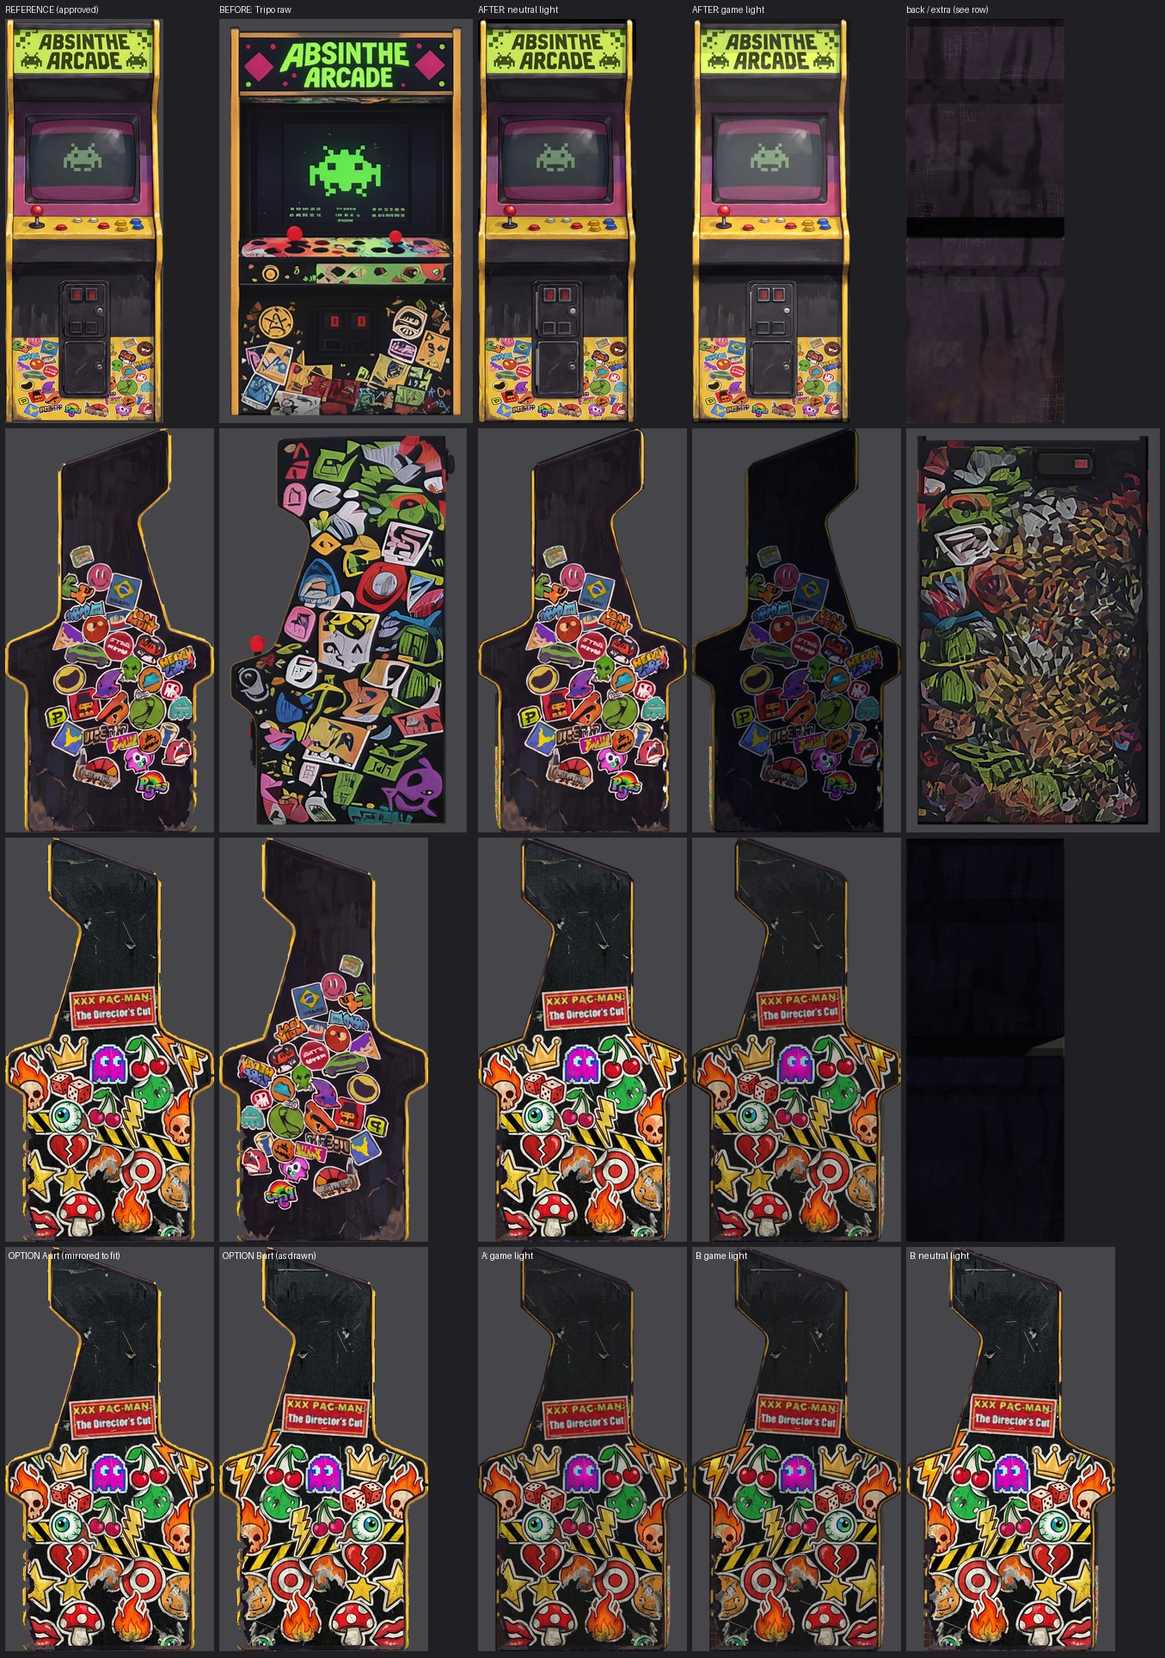
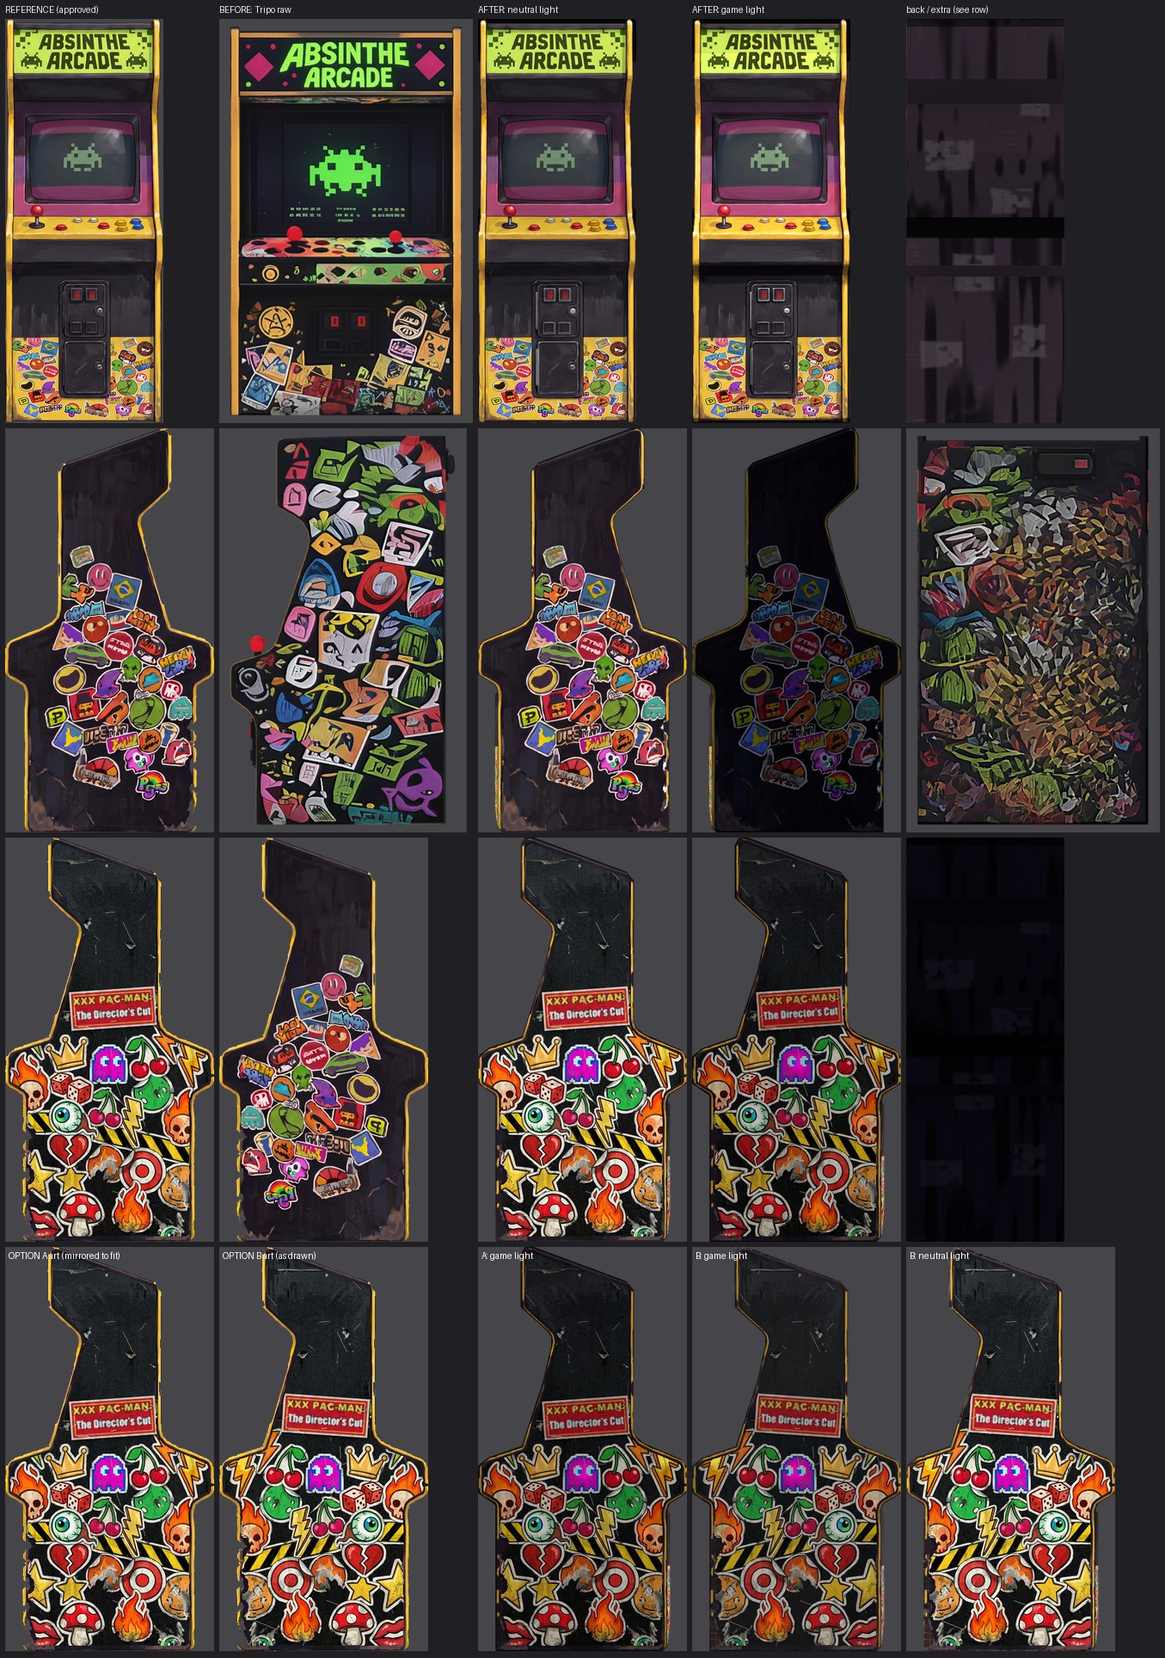
art(cabinet): Protocol Trial 2 B3: underside rebuilt (charcoal, fine grain, edge dust/scuffs, no camo or pits), back wedge traced and removed (dielectric specular in the game rig; -X rim bleed disproved), back drips/ghosts contrast up, B2 report claims corrected to match the renders (Eurobound-nhxz.
Claude-Session: https://claude.ai/code/session_01Rk2Ri3vAu7TBhRadSU9CbJ

diff --git a/Assets/Graphics/worlds/debaucheryville/absinthearcade/protocol_trial_cabinet/scripts/grime_fill.py b/Assets/Graphics/worlds/debaucheryville/absinthearcade/protocol_trial_cabinet/scripts/grime_fill.py
@@ -34,8 +34,9 @@ def noise(i, p, f):
 BODY = np.array([0x23, 0x1c, 0x24], np.float32) / 255
 RUST = np.array([0x4a, 0x2c, 0x16], np.float32) / 255
 SCUFF = np.array([0x52, 0x4e, 0x52], np.float32) / 255
-RESID = np.array([0x3c, 0x34, 0x3a], np.float32) / 255
+RESID = np.array([0x4e, 0x46, 0x4c], np.float32) / 255
 OIL = np.array([0x0e, 0x0b, 0x10], np.float32) / 255
+DUST = np.array([0x3a, 0x34, 0x30], np.float32) / 255
 # peeled-sticker residue ghosts on the back: (x0, x1, z0, z1) metres
 GHOSTS = [(-0.28, -0.12, 0.30, 0.46), (-0.05, 0.15, 0.60, 0.78), (0.10, 0.30, 0.25, 0.38), (-0.22, -0.02, 0.95, 1.08), (0.05, 0.28, 1.15, 1.30), (-0.30, -0.15, 1.40, 1.50)]
 out = np.tile(BODY, (H, W, 1)); done = np.zeros((H, W), bool)
@@ -51,42 +52,41 @@ for ti in range(len(tv)):
     if not ok.any(): continue
     w = np.stack([w0, w1, 1 - w0 - w1], 1)[ok]; qq = q[ok]
     p = w @ vco[tv[ti]]; n = w @ nrm[ti]; n /= np.linalg.norm(n, axis=1, keepdims=True) + 1e-9
-    pw = p + 0.05 * (np.stack([noise(1, p + o, (7, 7, 7)) for o in (0.0, 3.1, 7.7)], 1) - 0.5)   # domain warp: no axis-aligned value-noise blockiness
-    n1 = noise(0, pw, (3, 3, 3)); n2 = noise(1, pw, (11, 11, 11)); n3 = noise(2, pw, (38, 38, 38)); n4 = noise(3, pw, (55, 55, 55))
-    drip = noise(4, pw, (30, 30, 2.5))                              # long vertical streaks
-    z = p[:, 2]
+    # B3 rewrite (the B2 version made blotch camo, big round pits and swirl arcs on the underside): dark charcoal body paint, 1-3 px grain, a subtle edge dust gradient,
+    # short straight scuffs along edges and feet, a few rust specks at the feet. Back only: drips, sticker-residue ghosts, a little more contrast.
     ss = lambda x, lo, hi: (lambda t: t * t * (3 - 2 * t))(np.clip((x - lo) / (hi - lo), 0, 1))
-    col = BODY[None] * (0.74 + 0.55 * n1)[:, None] * (0.93 + 0.14 * n3)[:, None]      # mottled paint
-    col = col * (1 - 0.42 * ss(drip, 0.55, 0.82))[:, None]                             # dark drips, soft edged
-    under = n[:, 2] < -0.7; back = n[:, 1] > 0.7
-    rw = np.clip((0.5 - z) / 0.5, 0, 1) * ss(n2, 0.4, 0.8) * (0.45 + 0.1 * under)          # rust creeps up from the foot (B2: much less on the underside, which should read as the +X body: dark charcoal, fine grain, scratches)
-    col = col * (1 - rw[:, None] * 0.65) + RUST[None] * rw[:, None] * 0.65 * (0.75 + 0.5 * n3)[:, None]
-    oil = ss(n1, 0.62, 0.88) * (0.35 + 0.15 * under)                                      # dark oily pools, mostly low and under
-    col = col * (1 - oil[:, None] * 0.65) + OIL[None] * oil[:, None] * 0.65
-    # B2: full-atlas-resolution fine grain, crisp thin scratches and pits (the first pass was soft, blotchy blobs)
-    g1 = noise(5, p, (150, 150, 150)); g2 = noise(6, p, (330, 330, 330))
-    col = col * (0.88 + 0.16 * g1 + 0.12 * g2)[:, None]
-    sc = np.zeros(len(p), np.float32)
-    dlt = 0.002
-    for (ax, fq) in ((0, (110, 3, 3)), (2, (3, 3, 110))):                                  # hairline scratches: noise iso-lines of CONSTANT width (width = |n-0.5| / gradient)
-        pa = pw + ax * 1.7
-        na = noise(7, pa, fq); nb = noise(7, pa + dlt, fq); grad = np.abs(nb - na) / (dlt * 1.7) + 1e-3
-        wm = np.abs(na - 0.5) / grad                                                       # distance to the line in metres
-        sc = np.maximum(sc, ss(0.0009 - wm, 0, 0.0006) * ss(noise(8, pw, (7, 7, 7)), 0.6, 0.78))   # sparse: a coarse mask lets only some stretches show
-    pit = ss(g2 - 0.9, 0, 0.05) * ss(n2, 0.3, 0.6)
-    col = col * (1 - sc[:, None] * 0.5) + SCUFF[None] * (sc * 0.7)[:, None]                 # light scratches
-    col = col * (1 - pit[:, None] * 0.5)                                                    # dark pits
-    up = ss(n[:, 2], 0.25, 0.6)                                                              # up-facing shelves and ledges (the back shoulder at z 0.89 caught the sun as a flat pale wedge): dust- and oil-soaked, darker and grainier
-    col = col * (1 - 0.8 * up)[:, None]
-    col = np.where(back[:, None], col * 1.28, col)                                          # B2: back lifted a little so the wear reads in game light, still dark
+    z = p[:, 2]
+    under = n[:, 2] < -0.7; back = n[:, 1] > 0.7; up = ss(n[:, 2], 0.25, 0.6)
+    n1 = noise(0, p, (2.5, 2.5, 2.5))                                                    # very low frequency: +-5 % only, no mottle
+    g_a = noise(5, p, (900, 900, 900)); g_b = noise(6, p, (420, 420, 420)); g_c = noise(4, p, (1400, 1400, 1400))   # about 1-3 px at 1076 px/m
+    col = BODY[None] * (0.95 + 0.10 * n1)[:, None] * (0.86 + 0.14 * g_a + 0.10 * g_b + 0.06 * g_c)[:, None]
     dd6 = np.sort(np.stack([p[:, 0] - bmin[0], bmax[0] - p[:, 0], p[:, 1] - bmin[1], bmax[1] - p[:, 1], p[:, 2] - bmin[2], bmax[2] - p[:, 2]], 1), 1)
-    edge = dd6[:, 1]   # distance to the SECOND nearest bounding plane = distance to a box edge (the faces themselves sit on one plane: not edge wear)
-    chip = ss(0.016 - edge, 0, 0.012) * ss(n4, 0.45, 0.7)                               # edge chips, bare metal
-    col = col * (1 - chip[:, None] * 0.7) + SCUFF[None] * chip[:, None] * 0.7
-    for gx0, gx1, gz0, gz1 in GHOSTS:                                                   # peeled sticker residue on the back
+    edge = dd6[:, 1]                                                                       # distance to the nearest box EDGE (second nearest bounding plane)
+    dust = np.exp(-edge / 0.045) * (0.55 + 0.45 * g_b)                                    # subtle dirt gradient toward the edges
+    col = col * (1 - 0.30 * dust)[:, None] + DUST[None] * (0.30 * dust)[:, None]
+    # short straight-ish scuffs: iso-lines of strongly anisotropic noise (constant width), cut into short pieces by a coarse mask, concentrated along edges and feet
+    band = np.maximum(ss(0.07 - edge, 0, 0.05), ss(0.06 - z, 0, 0.04) * (~under))   # (the underside itself sits at z = 0: only its edges count)
+    band = np.where(back, 0.35 + 0.65 * band, band)                                       # the back also gets a few anywhere
+    sc = np.zeros(len(p), np.float32); dlt = 0.002
+    for fq, off in (((150, 5, 5), 0.0), ((5, 150, 5), 1.7), ((5, 5, 150), 3.1)):           # sheets thin in x / y / z: marks run along the other two axes
+        pa = p + off; na = noise(7, pa, fq); nb = noise(7, pa + dlt, fq); grad = np.abs(nb - na) / (dlt * 1.7) + 1e-3
+        wm = np.abs(na - 0.5) / grad
+        sc = np.maximum(sc, ss(0.0011 - wm, 0, 0.0007) * ss(grad, 25, 70) * ss(noise(8, pa, (22, 22, 22)), 0.64, 0.74))   # grad floor: no wide blobs where the noise is flat
+    sc = sc * band
+    col = col * (1 - 0.55 * sc)[:, None] + SCUFF[None] * (0.75 * sc)[:, None]
+    footzone = np.where(under, ss(0.05 - edge, 0, 0.03), ss(0.05 - z, 0, 0.03))             # near the feet (on the underside: its edges, where the feet are)
+    foot = footzone * ss(g_b + 0.4 * g_a, 1.12, 1.3)                                       # a few small rust specks
+    col = col * (1 - 0.8 * foot)[:, None] + RUST[None] * (0.8 * foot)[:, None]
+    col = col * (1 - 0.8 * up)[:, None]                                                    # up-facing ledges (back shoulder shelf) darker
+    # back only: drips, sticker-residue ghosts, a touch more contrast (overall brightness as in B2)
+    drip = noise(3, p, (30, 30, 2.5))
+    dk = ss(drip, 0.55, 0.80) * back
+    col = col * (1 - 0.6 * dk)[:, None]
+    col = np.where(back[:, None], col * 1.28, col)
+    for gx0, gx1, gz0, gz1 in GHOSTS:
         dd = np.minimum.reduce([p[:, 0] - gx0, gx1 - p[:, 0], z - gz0, gz1 - z])
-        ins = back * np.clip(dd / 0.012 + (n2 - 0.5) * 1.6, 0, 1) * ss(n3 + 0.4 * n2, 0.25, 0.6)
-        col = col * (1 - ins[:, None] * 0.5) + RESID[None] * (ins * (0.75 + 0.5 * n4))[:, None] * 0.5
+        ins = back * np.clip(dd / 0.012 + (noise(1, p, (11, 11, 11)) - 0.5) * 1.6, 0, 1) * ss(noise(2, p, (38, 38, 38)) + 0.4 * noise(1, p, (11, 11, 11)), 0.25, 0.6)
+        col = col * (1 - ins[:, None] * 0.7) + RESID[None] * (ins * (0.8 + 0.4 * g_b))[:, None] * 0.7
     out[np.clip(qq[:, 1].astype(int), 0, H - 1), np.clip(qq[:, 0].astype(int), 0, W - 1)] = np.clip(col, 0, 1)
     done[np.clip(qq[:, 1].astype(int), 0, H - 1), np.clip(qq[:, 0].astype(int), 0, W - 1)] = True
 print("texels filled", int(done.sum()), "of", W * H)

diff --git a/Assets/Graphics/worlds/debaucheryville/absinthearcade/protocol_trial_cabinet/scripts/render_lit.py b/Assets/Graphics/worlds/debaucheryville/absinthearcade/protocol_trial_cabinet/scripts/render_lit.py
@@ -41,7 +41,7 @@ if mode == "game":   # B2: the pale wedge on the back shoulder shelf in cabinet_
     for m in bpy.data.materials:
         for n in m.node_tree.nodes if m.use_nodes else []:
             if n.type == "BSDF_PRINCIPLED":
-                n.inputs["Specular IOR Level"].default_value = 0.2
+                n.inputs["Specular IOR Level"].default_value = float(__import__("os").environ.get("CAB_SPEC", "0.0"))
 if mode == "neutral":   # albedo-faithful: diffuse only, no specular lift on the near-black paint, no emission, so colour can be compared with the reference
     for m in bpy.data.materials:
         for n in m.node_tree.nodes if m.use_nodes else []:

diff --git a/Assets/Graphics/worlds/debaucheryville/absinthearcade/protocol_trial_cabinet/quality_report.md b/Assets/Graphics/worlds/debaucheryville/absinthearcade/protocol_trial_cabinet/quality_report.md
@@ -6,6 +6,20 @@ Bead Eurobound-nhxz.9 (trial asset confirmed by the author, Desk Eurobound-nhxz-
 
 Author rulings (Desk): "Fix the softness and the hidden sides, then show me again" (ArmorPaint not approved); the new other-side art "Approve it: go to Phase B". This section replaces the statements below that it contradicts; the first-pass text is kept for the record. **Status: ready for the nhxz.8 reference-locked review. Not self-approved.**
 
+### B3: underside and back, after nhxz.8 round 2 (REVISION REQUIRED on those two only), 2026-11-14
+
+**What was wrong with the B2 claims.** The B2 report said the underside matched the +X body. `renders/cabinet_neutral_bottom.png` showed soft brown-and-purple camo blotches, large round dark pits and long swirly pale arcs. Checked: the pattern was in the atlas (a 1:1 crop of the underside island in `pbr/cabinet_basecolor.png` showed the same shapes) and in the render, so the final grime pass did reach both. The B2 recipe itself was wrong: low-frequency mottle (3 cells/m), rust and oil pools, pits from thresholding 330 cells/m noise, and noise iso-line scratches whose width was only bounded by the gradient. The B2 report described what the recipe was meant to do, not what the render showed. Every claim in this section was read off the renders listed.
+
+| Item | B3 fix | What the render shows |
+|---|---|---|
+| Underside | `grime_fill.py` rewritten. Dark charcoal base #231C24 with only +-5 % low-frequency variation; fine grain at about 900 / 420 / 1400 cells/m (1-3 px at the atlas scale); a subtle dust gradient toward the box edges (about 30 % toward #3A3430 within roughly 4 cm of an edge); a few short straight-ish hairline scuffs concentrated along the edges (constant width about 1 mm, cut into short pieces, with a gradient floor so no blobs); at most a few small rust specks within 5 cm of the edges, where the feet are. No blotch camo, no pits, no arcs. | `renders/cabinet_neutral_bottom.png` and `cabinet_game_bottom.png`: an even dark charcoal face with fine grain. **The scuffs and the dust gradient are barely visible at 740 px**: they show only when the atlas is viewed at 1:1 near the island edges. If the author wants more visible drag marks, raise the sparse-mask threshold in `grime_fill.py`. Inferred, as before. |
+| Back wedge | Tested directly: the day atlas was projected with the -X art replaced by flat black (`source_references/aa_prop_cabinet_side_other_black_*`) and the back rendered next to a control. The wedge was **identical** with the black art, so the -X rim art is NOT bleeding onto the shelf. A texel dump of the shelf faces confirmed their base colour is already dark (0.07-0.19). Turning dielectric specular off in the render rig (everything else equal) made the wedge nearly vanish: it was grazing-angle dielectric specular of the key light (and the softbox) on the up-facing shelf, lit where the light passes the cabinet's -X side. The shelf texels are also now 80 % darker than the back (they were 45 %). | `cabinet_game_back.png`, luminance 0-255 at 740 px: the wedge region peaks at **8.2** (mean 2.3), against 6.6 mean for the back body. With dielectric specular at 0.05 it still peaked at 50. It no longer reads as a shape. The fix is in the rig (`render_lit.py`, `CAB_SPEC`, default 0.0 for the game mode), not in the texture: the metal trim keeps its highlights (it is metallic), CRT glass and plastic lose their dielectric specular in game-light renders. |
+| Back legibility | Contrast, not brightness: drips 0.42 -> 0.60 darkening, sticker-residue ghosts 0.5 -> 0.7 with a lighter residue colour (#4E464C), a few scuffs anywhere on the back. Overall back brightness is the B2 value (base lifted about 28 %). | `renders/cabinet_neutral_back.png`: drips and six residue ghosts read clearly. `cabinet_game_back.png` and `cabinet_hi_game_back.png`: the drips and ghosts are visible but **faint**, because the back faces away from the key light and the rig's fill is dim; they read as a dark face with soft dark drips and paler patches. Not brighter than B2 overall. |
+
+**Rig note (D4, updated).** Game renders for A (the package) use dielectric specular 0 + sun specular 0.15 + the specular-only softbox. The option-B -X renders (`cabinet_altB_game_left.png`, `cabinet_hi_altB_game_left.png`) were rendered earlier under the dielectric 0.2 setting; the difference on the flat sticker art is negligible but the two sets are not from the identical rig.
+
+**Not changed in B3:** the front, sides, metal trim, sharpening and the colour numbers (table in B2 is current; right rail 0.91 of pixels under dE 15, all others as listed there).
+
 ### B2: mechanical fixes after the blind nhxz.8 review (REVISION REQUIRED), 2026-11-14
 
 Everything below supersedes the matching Phase B numbers and settings further down. The judgement calls (the -X layout, the 3072 atlas, the steel trim colour) are left to the author.
@@ -17,7 +31,7 @@ Everything below supersedes the matching Phase B numbers and settings further do
 | D1 | **The -X flank is MIRRORED, not as drawn.** The approved other-side art was drawn in the +X view's orientation. Viewed from -X the cabinet's front is on the other side, so Phase B re-made the art with the silhouette AND the whole sticker cluster mirrored (`make_other_side_r3.py`, `CABINET_MIRROR=1`). The cluster's layout on the model is therefore the mirror image of the layout in the approved drawing. The lettering sticker is NOT mirrored (it reads correctly), so it is re-stamped at the mirrored position, tilted the other way. | A flat drawing cannot be seen from both sides without flipping. | `renders/cabinet_*_left.png`. **Option B** (new in B2): the cluster placed AS DRAWN inside the mirrored silhouette, lettering readable (`source_references/aa_prop_cabinet_side_other_alt_*`, `renders/cabinet_altB_*_left.png`, `cabinet_hi_altB_game_left.png`). Option A is what the package textures use; B exists for the author to choose. Both are side by side in the before/after sheet. B's atlas was built the same way but only its left render is kept. |
 | D2 | Atlas 3072 x 3072, above the 2K props cap in `3d_asset_rules.md`. | Sharpness was asked for. | Needs an author ruling to stay. |
 | D3 | The coin-door **metal trim albedo is lifted to dark steel** (slot-bezel rings, locks, hinges, coin-return frame; derived from the reference's own shading: 25 % reference, 75 % steel 190/192/198 scaled by the reference luminance). The door body stays black, as in the reference. | A metal reflects only what is around it; with the reference's near-black trim colour the metal read as nothing. | `renders/cabinet_hi_game_front.png`. In the neutral render (diffuse only) the trim is darker than the reference; `qa_color_compare.json` coin door 0.99 -> 0.92 of pixels under dE 15 reflects that. |
-| D4 | The **game-light stand-in rig gained dielectric specular 0.2, sun specular 0.15 and a specular-only softbox** in front of the cabinet (area light, diffuse factor 0, 25 W, 1.6 x 1.0 m, 2.2 m in front, 0.45 m above the centre). Earlier game renders had none. | Polished metal needs something bright to reflect. It is not the in-game rig. | `render_lit.py` (`CAB_SOFTBOX` env overrides the power). The game renders are not part of the colour QA. |
+| D4 | The **game-light stand-in rig gained dielectric specular 0 (B3; was 0.2), sun specular 0.15 and a specular-only softbox** in front of the cabinet (area light, diffuse factor 0, 25 W, 1.6 x 1.0 m, 2.2 m in front, 0.45 m above the centre). Earlier game renders had none. | Polished metal needs something bright to reflect. It is not the in-game rig. | `render_lit.py` (`CAB_SOFTBOX` env overrides the power). The game renders are not part of the colour QA. |
 | D5 | The references are enlarged 3x with Lanczos before sampling and sharpened in-mask (not AI upscaling, no invented detail). | Sharpness. | `prep_projection_b.py`. |
 | D6 | The back, underside, recess walls and bevel strips are invented grime (inferred). | No reference shows them. | `renders/cabinet_*_back.png`, `cabinet_*_bottom.png`. |
 
@@ -26,8 +40,8 @@ Everything below supersedes the matching Phase B numbers and settings further do
 | Item | Fix | Result |
 |---|---|---|
 | Halos / crunch | Unsharp radius 2.4 -> **1.6 px** (enlarged space), percent now **30-70** (coin door 70, kick-panel and +X stickers 70, -X flank 60, control panel 55, marquee 60, rest 30-50, was up to 140), a **detail threshold** (luma 0.03 ramping to 0.09: flat areas are untouched) and a **local min/max clamp** (radius 2: the result can never overshoot the neighbouring pixels, so no dark or bright fringes). New `project_ref.py` keys `sharpen_thr` and `sharpen_clamp`. | `renders/cabinet_hi_game_left.png` lettering sticker and rim are clean at 100 %. Detail ratio is now 0.65-1.2 against the reference (was 1.2-1.8); halo-free was chosen over a high ratio. |
-| Underside / back grime | Generated per texel at the full 3072 atlas resolution: fine grain at about 150 and 330 cells/m, hairline scratches of constant width (noise iso-lines divided by the local gradient), dark pits, much less rust and oil than Phase B (the first underside was a soft rusty blotch pattern), so it reads like the +X body (dark charcoal, grain, scratches). Back base value lifted about 28 % so the wear reads in game light; still dark. | `renders/cabinet_neutral_bottom.png`, `cabinet_game_back.png`. All inferred. |
-| Back wedge (around y = 385) | **NOT FIXED, only investigated.** A texel dump of the triangles around it (z 0.85-0.95 m, x below -0.28 m, back-facing) shows dark grime texels (base colour 0.07-0.19, roughness 0.85, metallic 0, flat normal), so it is not a texture fault in the inferred fill. It is a lit face of the back shoulder shelf seen edge-on, with a shadow terminator from the tall front body giving the wedge shape. It stays in `cabinet_neutral_back.png` as a small bright notch at the right edge. Tried without effect on the wedge: up-facing texels made 80 % darker, game-rig dielectric specular 0.2, sun specular 0.15. Remaining suspect, untested: the faces at the -X end of the shelf pick up the yellow rim of the -X art through the `left_all` pass (their texels sit at x between -0.3615 and -0.3625 m). Filed for follow-up rather than guessed at. | `cabinet_game_back.png` (still visible, smaller and dimmer than in Phase B). |
+| Underside / back grime | **B2 claim withdrawn.** B2 said the underside read like the +X body; the render did not (big soft brown-and-purple blotches, large round dark pits, long swirly pale arcs). The grime did reach the atlas and the render; the B2 recipe was the problem. **Replaced in B3, see above.** | see B3 |
+| Back wedge (around y = 385) | **B2 text withdrawn.** The suspect it named (rim art bleeding in) was tested in B3 and is wrong; the wedge is now gone. **See B3 above.** | see B3 |
 | Metal | Door body stays black matte. The **trim** is its own zone (hand-placed from the reference: four slot bezel rings, two locks, two hinge strips, the coin-return frame ring) with **metallic 1.0, roughness 0.28** (assumed, not measured) and a height value so the edges get a relief normal. Value range stays sane: roughness 0.08-0.85, metallic 1.0 on 0.23 % of texels. | In `cabinet_hi_game_front.png` the trim reads brighter than the door body and the bezel edges and hinges catch light (measured at 740 px, trim luminance p90 143 / p99 205 against the door body p90 86 / p99 119). |
 
 **Colour QA after B2** (neutral render vs reference; "detail" is render over reference Laplacian variance, 1.0 = as sharp as the approved art):
@@ -52,7 +66,7 @@ Everything below supersedes the matching Phase B numbers and settings further do
 
 **SAM compare (`qa_sam_compare.json`): STALE.** It was not re-run (SAM needs the model and a long GPU/CPU job; the zones and cameras did not change, but the textures did). Treat the file as the first pass's. The -X flank has no zone comparison.
 
-**Process note.** `build_cabinet.py` is not bit-deterministic (18315 / 18319 / 18333 vertices on different runs), so all three projection GLBs and both -X options come from ONE build. `assemble_pbr.py` needs absolute output paths (relative ones silently wrote nothing). The blind-review gate has not seen B2.
+**Process note.** `build_cabinet.py` is not bit-deterministic (18315 / 18319 / 18333 vertices on different runs), so all three projection GLBs and both -X options come from ONE build. `assemble_pbr.py` needs absolute output paths (relative ones silently wrote nothing). The blind-review gate has not seen B3.
 
 ### Phase B first numbers (superseded where B2 above differs)
 
